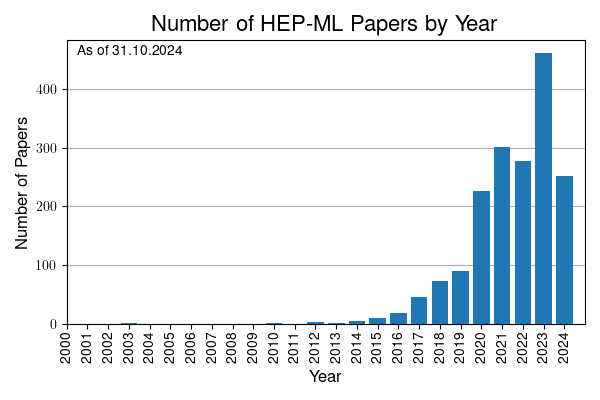
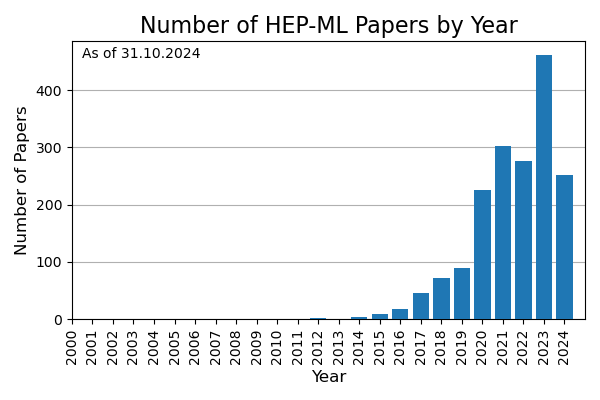
remove latex rendering in plot for testing

diff --git a/make_md.py b/make_md.py
@@ -283,8 +283,8 @@ for line in myfile:
 if update_plot:
     import numpy as np
     import matplotlib.pyplot as plt
-    plt.rcParams.update({"text.usetex": True,
-                         "font.family": "Helvetica"})
+    #plt.rcParams.update({"text.usetex": True,
+    #                     "font.family": "Helvetica"})
     min_year = 2000
     clean_list = []
     for entry in YEARS_FOR_PLOT:
